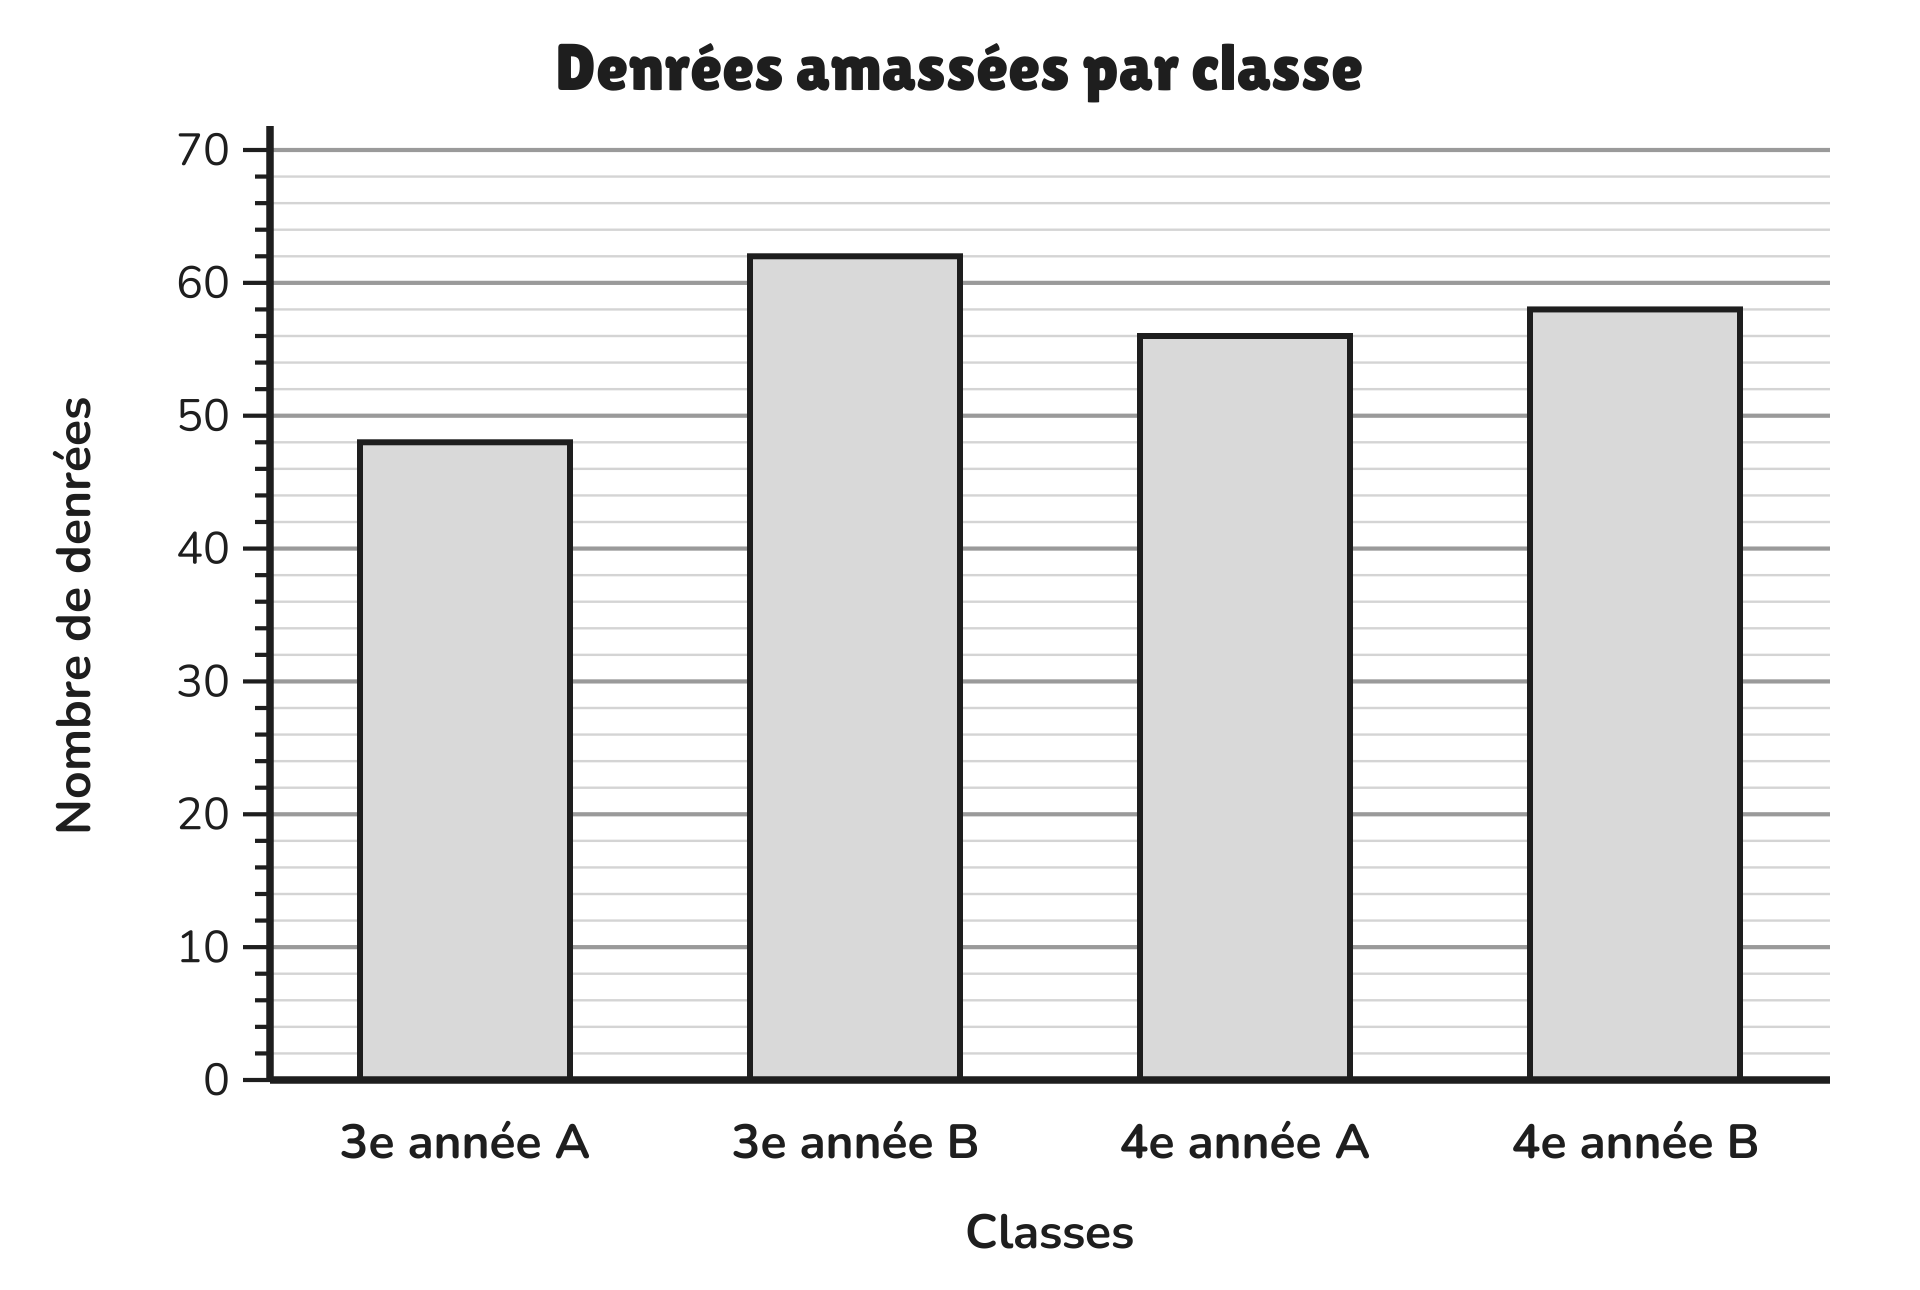
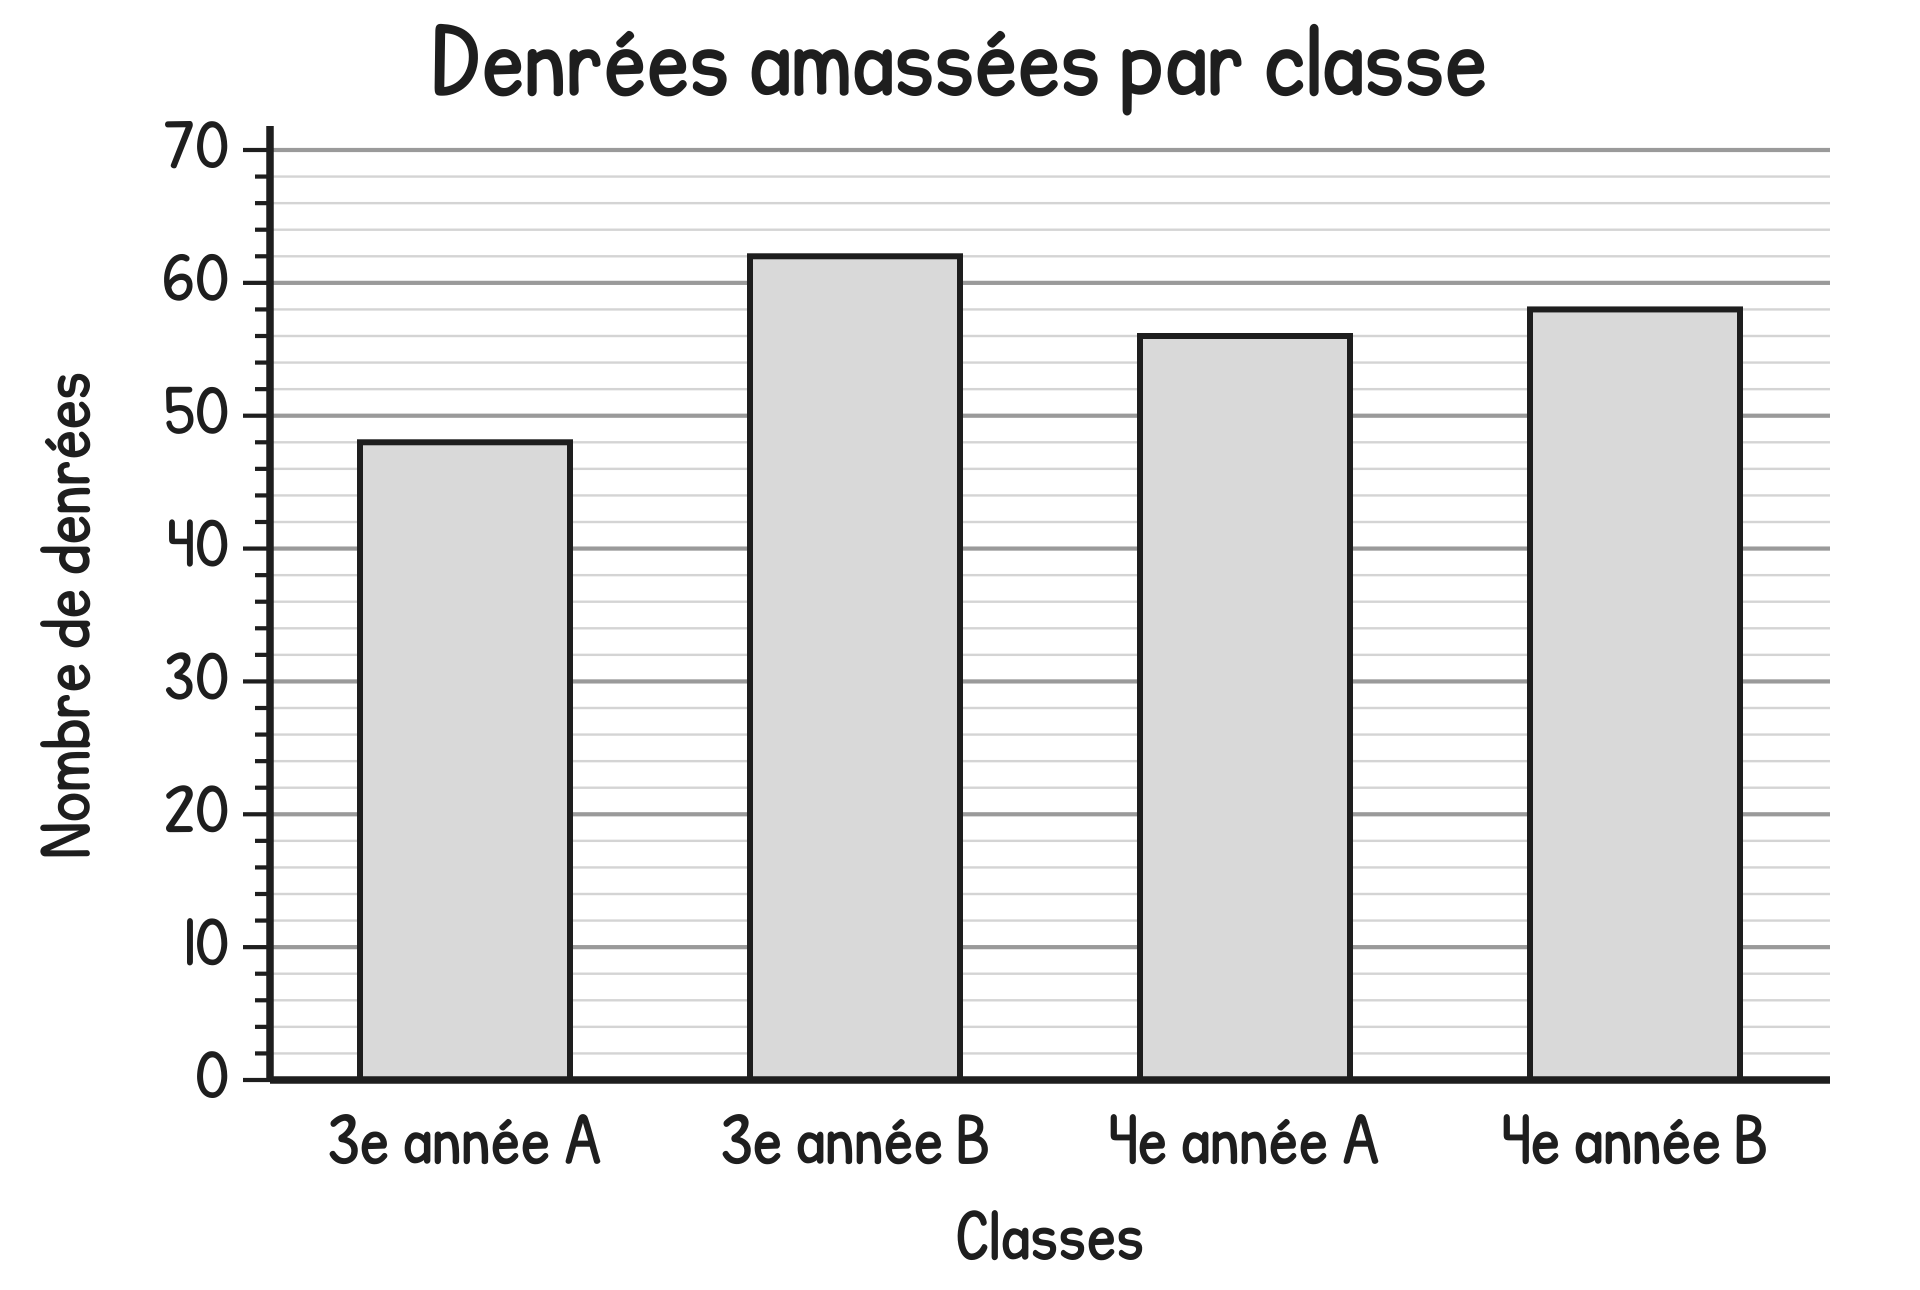
Diagramme des denrées en KG Perfect Penmanship
Claude-Session: https://claude.ai/code/session_01NiTaWGpjQjB6yeVp3yNw7H

diff --git a/ressources/resoudre-paniers-guignolee-4e-annee/dessins/dessins.py b/ressources/resoudre-paniers-guignolee-4e-annee/dessins/dessins.py
@@ -11,6 +11,7 @@ GRIS = '#D9D9D9'
 GRIS_PALE = '#EFEFEF'
 F = "font-family='Nunito'"
 T = "font-family='Lilita One'"
+KG = "font-family='KG Perfect Penmanship'"  # police de la créatrice (non versionnée, licence)
 
 
 def save(name, w, h, body, scale=3):
@@ -31,14 +32,14 @@ def diagramme():
     x0, y0, x1, ytop = 90, 360, 610, 50          # axes
     vmax = 70
     sy = (y0 - ytop) / vmax
-    b = txt(W / 2, 30, 'Denrées amassées par classe', 22, font=T)
+    b = txt(W / 2, 32, 'Denrées amassées par classe', 26, font=KG)
     for v in range(0, vmax + 1, 2):
         y = y0 - v * sy
         fort = v % 10 == 0
         b += f"<line x1='{x0}' y1='{y}' x2='{x1}' y2='{y}' stroke='{'#9A9A9A' if fort else '#D4D4D4'}' stroke-width='{1.4 if fort else 0.8}'/>"
         b += f"<line x1='{x0-(9 if fort else 5)}' y1='{y}' x2='{x0}' y2='{y}' stroke='{INK}' stroke-width='1.4'/>"
         if fort:
-            b += txt(x0 - 14, y + 5, str(v), 15, 'end')
+            b += txt(x0 - 14, y + 6, str(v), 17, 'end', font=KG)
     data = [('3e année A', 48), ('3e année B', 62), ('4e année A', 56), ('4e année B', 58)]
     bw = 70
     step = (x1 - x0) / len(data)
@@ -46,12 +47,12 @@ def diagramme():
         cx = x0 + step * (i + .5)
         b += (f"<rect x='{cx-bw/2}' y='{y0-v*sy}' width='{bw}' height='{v*sy}' fill='{GRIS}' "
               f"stroke='{INK}' stroke-width='2'/>")
-        b += txt(cx, y0 + 26, lab, 16, weight=700)
+        b += txt(cx, y0 + 28, lab, 18, font=KG)
     b += f"<line x1='{x0}' y1='{ytop-8}' x2='{x0}' y2='{y0}' stroke='{INK}' stroke-width='2.5'/>"
     b += f"<line x1='{x0}' y1='{y0}' x2='{x1}' y2='{y0}' stroke='{INK}' stroke-width='2.5'/>"
-    b += txt(30, (y0 + ytop) / 2, 'Nombre de denrées', 16, weight=700,
+    b += txt(30, (y0 + ytop) / 2, 'Nombre de denrées', 18, font=KG,
              extra=f"transform='rotate(-90 30 {(y0+ytop)/2})'")
-    b += txt((x0 + x1) / 2, y0 + 56, 'Classes', 16, weight=700)
+    b += txt((x0 + x1) / 2, y0 + 60, 'Classes', 18, font=KG)
     save('diagramme-denrees', W, H, b)
 
 
